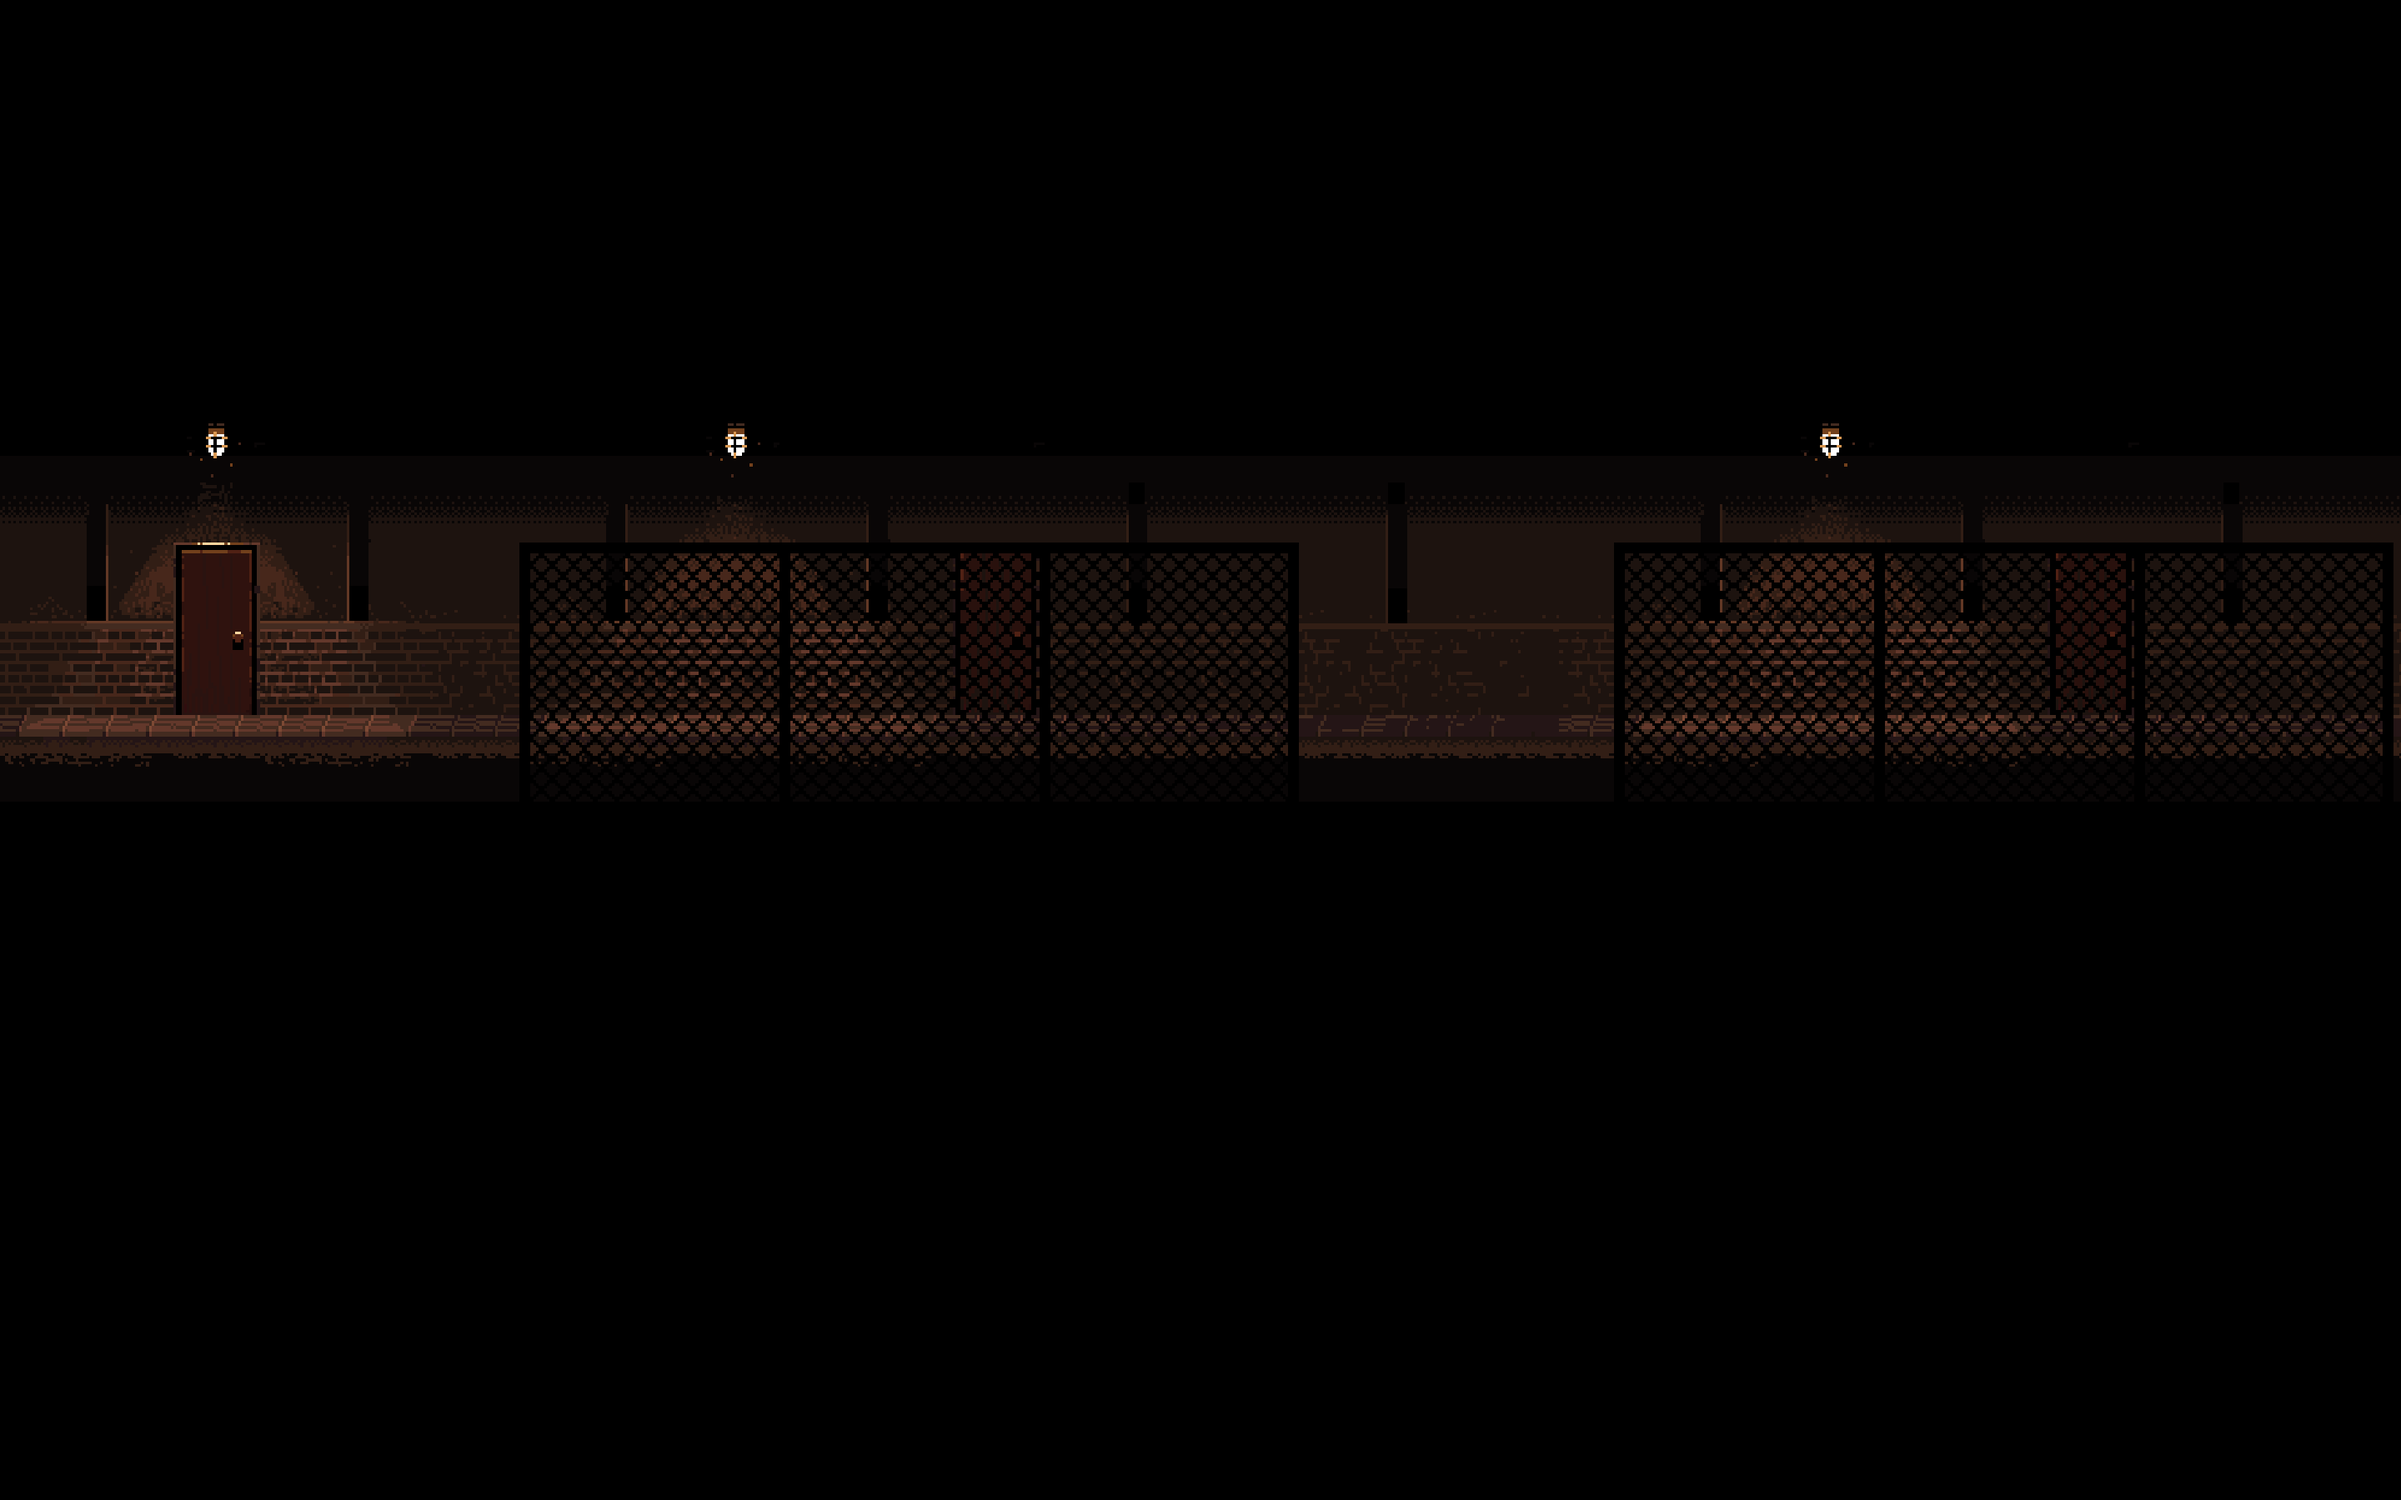
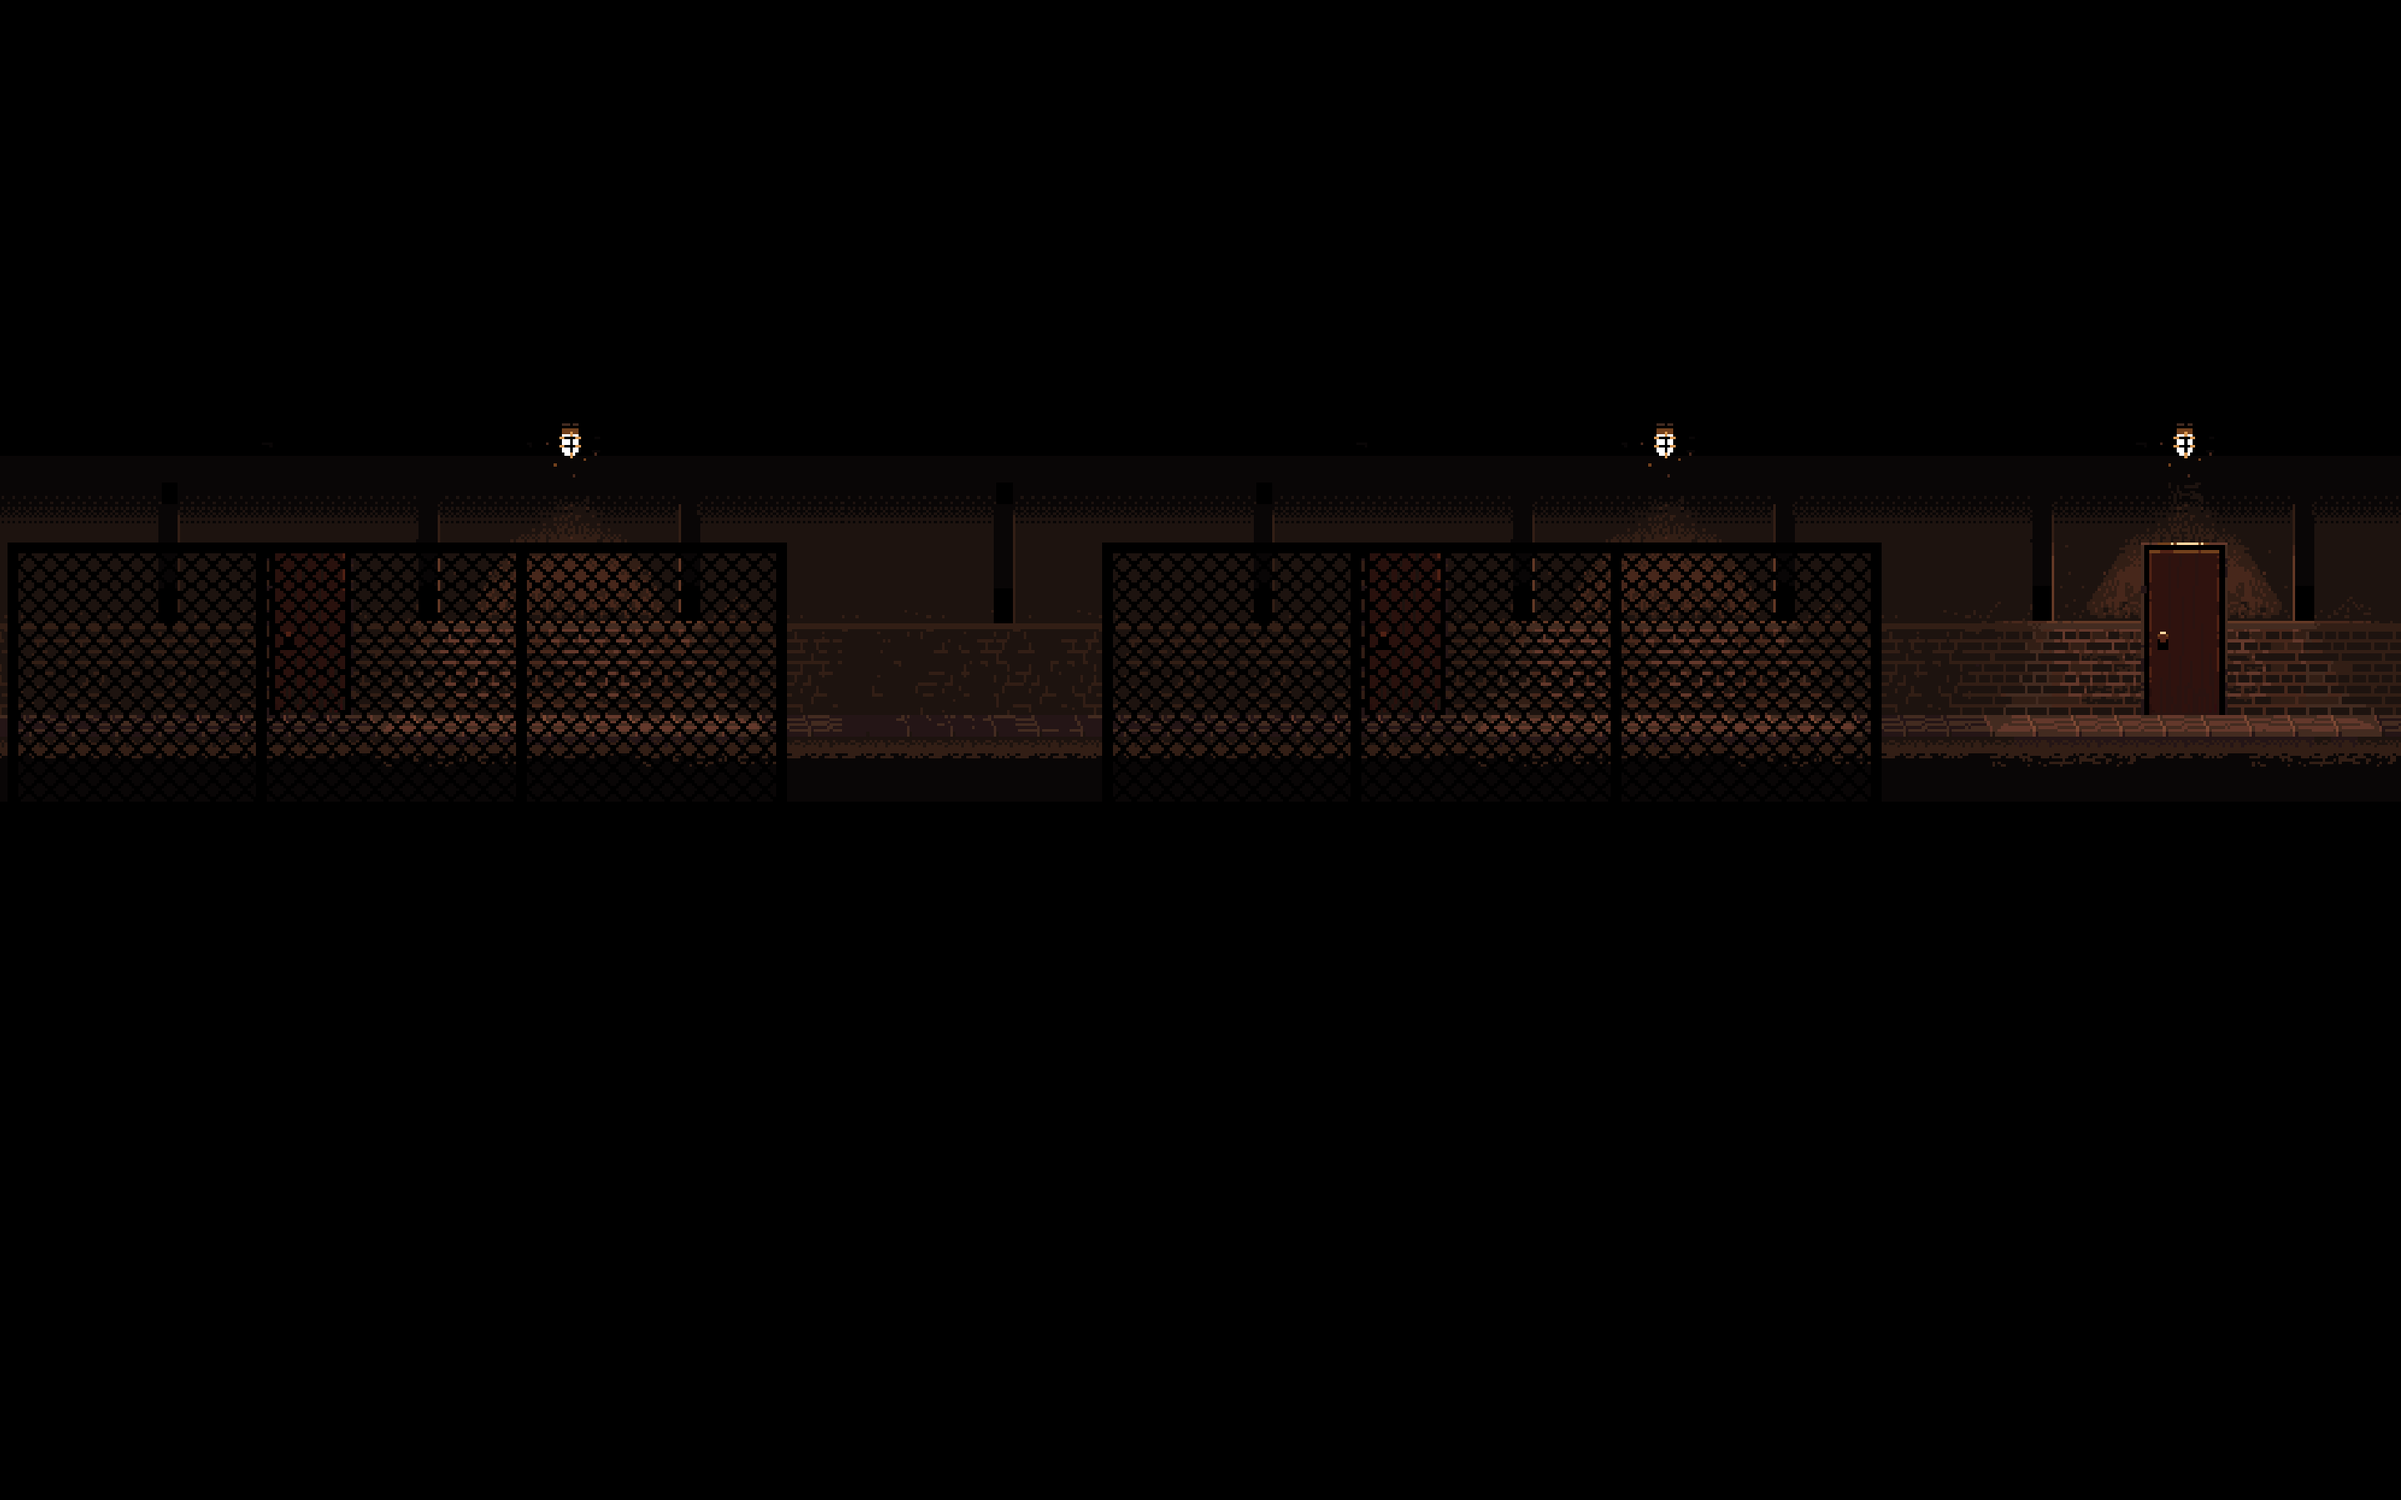
agrego fondo con efecto slide. el fondo entre MainMenuScreen y la screen CreateGameScreen se deslizan ida y vuelva si se va a una u otra

diff --git a/client/menu/main_menu_screen.cpp b/client/menu/main_menu_screen.cpp
@@ -9,13 +9,6 @@ MainMenuScreen::MainMenuScreen(Queue<GenericMsg*>* send_queue, Queue<GenericMsg*
     // Load key press sound
     keyPressSound = new QSound("client/menu/assets/Retro3.wav", this);
 
-    // Set background image using QLabel
-    QLabel *backgroundLabel = new QLabel(this);
-    background.load("client/menu/assets/sliding_background.png");
-    background = background.scaled(size(), Qt::KeepAspectRatioByExpanding);
-    backgroundLabel->setPixmap(background);
-    backgroundLabel->setGeometry(0, 0, this->width(), this->height());
-
     // Create black opaque background rectangle
     RoundedRectangle * baseRectangle = new RoundedRectangle(this, 710, 260, 500, 560, QColor(0,0,0, 100), QColor(0,0,0, 100));
     baseRectangle->setParent(this);
@@ -93,23 +86,6 @@ MainMenuScreen::MainMenuScreen(Queue<GenericMsg*>* send_queue, Queue<GenericMsg*
 }
 
 void MainMenuScreen::resizeEvent(QResizeEvent *event) {
-        // Trigger a repaint to adjust the background and rectangle
-    QPixmap background("client/menu/assets/sliding_background.png");
-    if (!background.isNull()) {
-        int centerX = background.width() / 2;
-        int centerY = background.height() / 2 - 150;
-        int halfHeight = height() / 2;
-        QRect centerRect(centerX - width(), centerY - halfHeight, width(), height());
-
-        QPixmap centeredBackground = background.copy(centerRect);
-        centeredBackground = centeredBackground.scaled(size(), Qt::KeepAspectRatioByExpanding);
-        QLabel *backgroundLabel = findChild<QLabel *>();
-        if (backgroundLabel) {
-            backgroundLabel->setPixmap(centeredBackground);
-            backgroundLabel->setGeometry(0, 0, this->width(), this->height());
-        }
-    }
-
     update();
 }
 

diff --git a/client/menu/main_window.cpp b/client/menu/main_window.cpp
@@ -39,7 +39,7 @@ MainWindow::MainWindow(QWidget *parent, Queue<GenericMsg*>* send_queue, Queue<Ge
     connect(connectionScreen, &ConnectionScreen::quitApplication, this, &MainWindow::handleQuitApplication);
 
     // Connect the signal from ConnectionScreen to switch to MainMenuScreen
-    connect(connectionScreen, &ConnectionScreen::switchToMainMenuScreen, this, &MainWindow::showMainMenuScreen);
+   connect(connectionScreen, &ConnectionScreen::switchToMainMenuScreen, this, &MainWindow::showMainMenuScreenWithFade);
 
     // Connect the quit signal from MainMenuScreen to quit the application
     connect(mainMenuScreen, &MainMenuScreen::quitApplication, this, &MainWindow::handleQuitApplication);
@@ -74,6 +74,12 @@ void MainWindow::slideBackground(int targetX) {
     animation->start(QPropertyAnimation::DeleteWhenStopped);
 }
 
+void MainWindow::showMainMenuScreen() {
+    stackedWidget->setCurrentWidget(mainMenuScreen);
+    slideBackground(0); // Move to the first third
+
+}
+
 
 void MainWindow::showLogoScreen() {
     stackedWidget->setCurrentWidget(logoScreen);
@@ -87,7 +93,7 @@ void MainWindow::handleQuitApplication() {
     QApplication::quit();
 }
 
-void MainWindow::showMainMenuScreen() {
+void MainWindow::showMainMenuScreenWithFade() {
     QWidget *overlay = new QWidget(this);
     overlay->setStyleSheet("background-color: black;");
     overlay->setGeometry(this->rect());
@@ -118,6 +124,7 @@ void MainWindow::showMainMenuScreen() {
 
 void MainWindow::showCreateGameScreen() {
     stackedWidget->setCurrentWidget(createGameScreen);
+    slideBackground(-640); // Move to the second third
 }
 
 MainWindow::~MainWindow() {

diff --git a/client/menu/create_game_screen.cpp b/client/menu/create_game_screen.cpp
@@ -7,13 +7,6 @@ CreateGameScreen::CreateGameScreen(Queue<GenericMsg*>* send_queue, Queue<Generic
     // Set focus policy to receive key events
     setFocusPolicy(Qt::StrongFocus);
 
-    // Set background image using QLabel
-    QLabel *backgroundLabel = new QLabel(this);
-    background.load("client/menu/assets/sliding_background.png");
-    background = background.scaled(size(), Qt::KeepAspectRatioByExpanding);
-    backgroundLabel->setPixmap(background);
-    backgroundLabel->setGeometry(0, 0, this->width(), this->height());
-
     // Load key press sound
     keyPressSound = new QSound("client/menu/assets/Retro3.wav", this);
 
@@ -205,23 +198,7 @@ CreateGameScreen::CreateGameScreen(Queue<GenericMsg*>* send_queue, Queue<Generic
    
 
 void CreateGameScreen::resizeEvent(QResizeEvent *event) {
-        // Trigger a repaint to adjust the background and rectangle
-    QPixmap background("client/menu/assets/sliding_background.png");
-    if (!background.isNull()) {
-        int centerX = background.width() / 2;
-        int centerY = background.height() / 2 - 150;
-        int halfHeight = height() / 2;
-        QRect centerRect(centerX - width(), centerY - halfHeight, width(), height());
-
-        QPixmap centeredBackground = background.copy(centerRect);
-        centeredBackground = centeredBackground.scaled(size(), Qt::KeepAspectRatioByExpanding);
-        QLabel *backgroundLabel = findChild<QLabel *>();
-        if (backgroundLabel) {
-            backgroundLabel->setPixmap(centeredBackground);
-            backgroundLabel->setGeometry(0, 0, this->width(), this->height());
-        }
-    }
-
+    
     update();
 }
 

diff --git a/client/menu/connection_screen.cpp b/client/menu/connection_screen.cpp
@@ -33,11 +33,17 @@ ConnectionScreen::ConnectionScreen(Queue<GenericMsg*>* send_queue, Queue<Generic
 
     // Center of the screen: (1920 / 2, 1080 / 2) = (960, 540)
     // Top-left corner of the rectangle: (960 - 500 / 2, 540 - 400 / 2) = (710, 340)
-    RoundedRectangle * baseRectangle = new RoundedRectangle(this, 650, 280, 620, 560, QColor(213, 226, 224, 100), QColor(213, 226, 224, 100));
+    RoundedRectangle * baseRectangle = new RoundedRectangle(this, 650, 200, 620, 660, QColor(213, 226, 224, 100), QColor(213, 226, 224, 100));
 
     int fontId = QFontDatabase::addApplicationFont("client/menu/assets/HomeVideo-Regular.ttf");
     QString fontFamily = QFontDatabase::applicationFontFamilies(fontId).at(0);
     customFont = QFont(fontFamily);
+
+    // Create label  "Connect to server"
+    QLabel *connectLabel = new QLabel("Connect to server", this);
+    connectLabel->setStyleSheet("QLabel { color: #ced4da; font-size: 52px; }");
+    connectLabel->setFont(customFont);
+    connectLabel->setGeometry(690, 260, 550, 50);
     
     QLabel *hostnameLabel = new QLabel("hostname", this);
     QLabel *portLabel = new QLabel("port", this);
@@ -93,7 +99,7 @@ ConnectionScreen::ConnectionScreen(Queue<GenericMsg*>* send_queue, Queue<Generic
         "QPushButton {"
         "background-color: rgba(240, 140, 0, 100);"        
         "color: #ced4da;"                     
-        "font-size: 42px;"                  
+        "font-size: 48px;"                  
         "border: 0px solid #555555;"        
         "border-radius: 15px;"              
         "padding: 10px;"                    

diff --git a/client/menu/main_window.h b/client/menu/main_window.h
@@ -28,6 +28,7 @@ public:
     void showLogoScreen();
     void showConnectionScreen();
     void showMainMenuScreen();
+    void showMainMenuScreenWithFade();
     // void showJoinGammeScreen();
     void showCreateGameScreen();
     // void showLobbyScreen();
